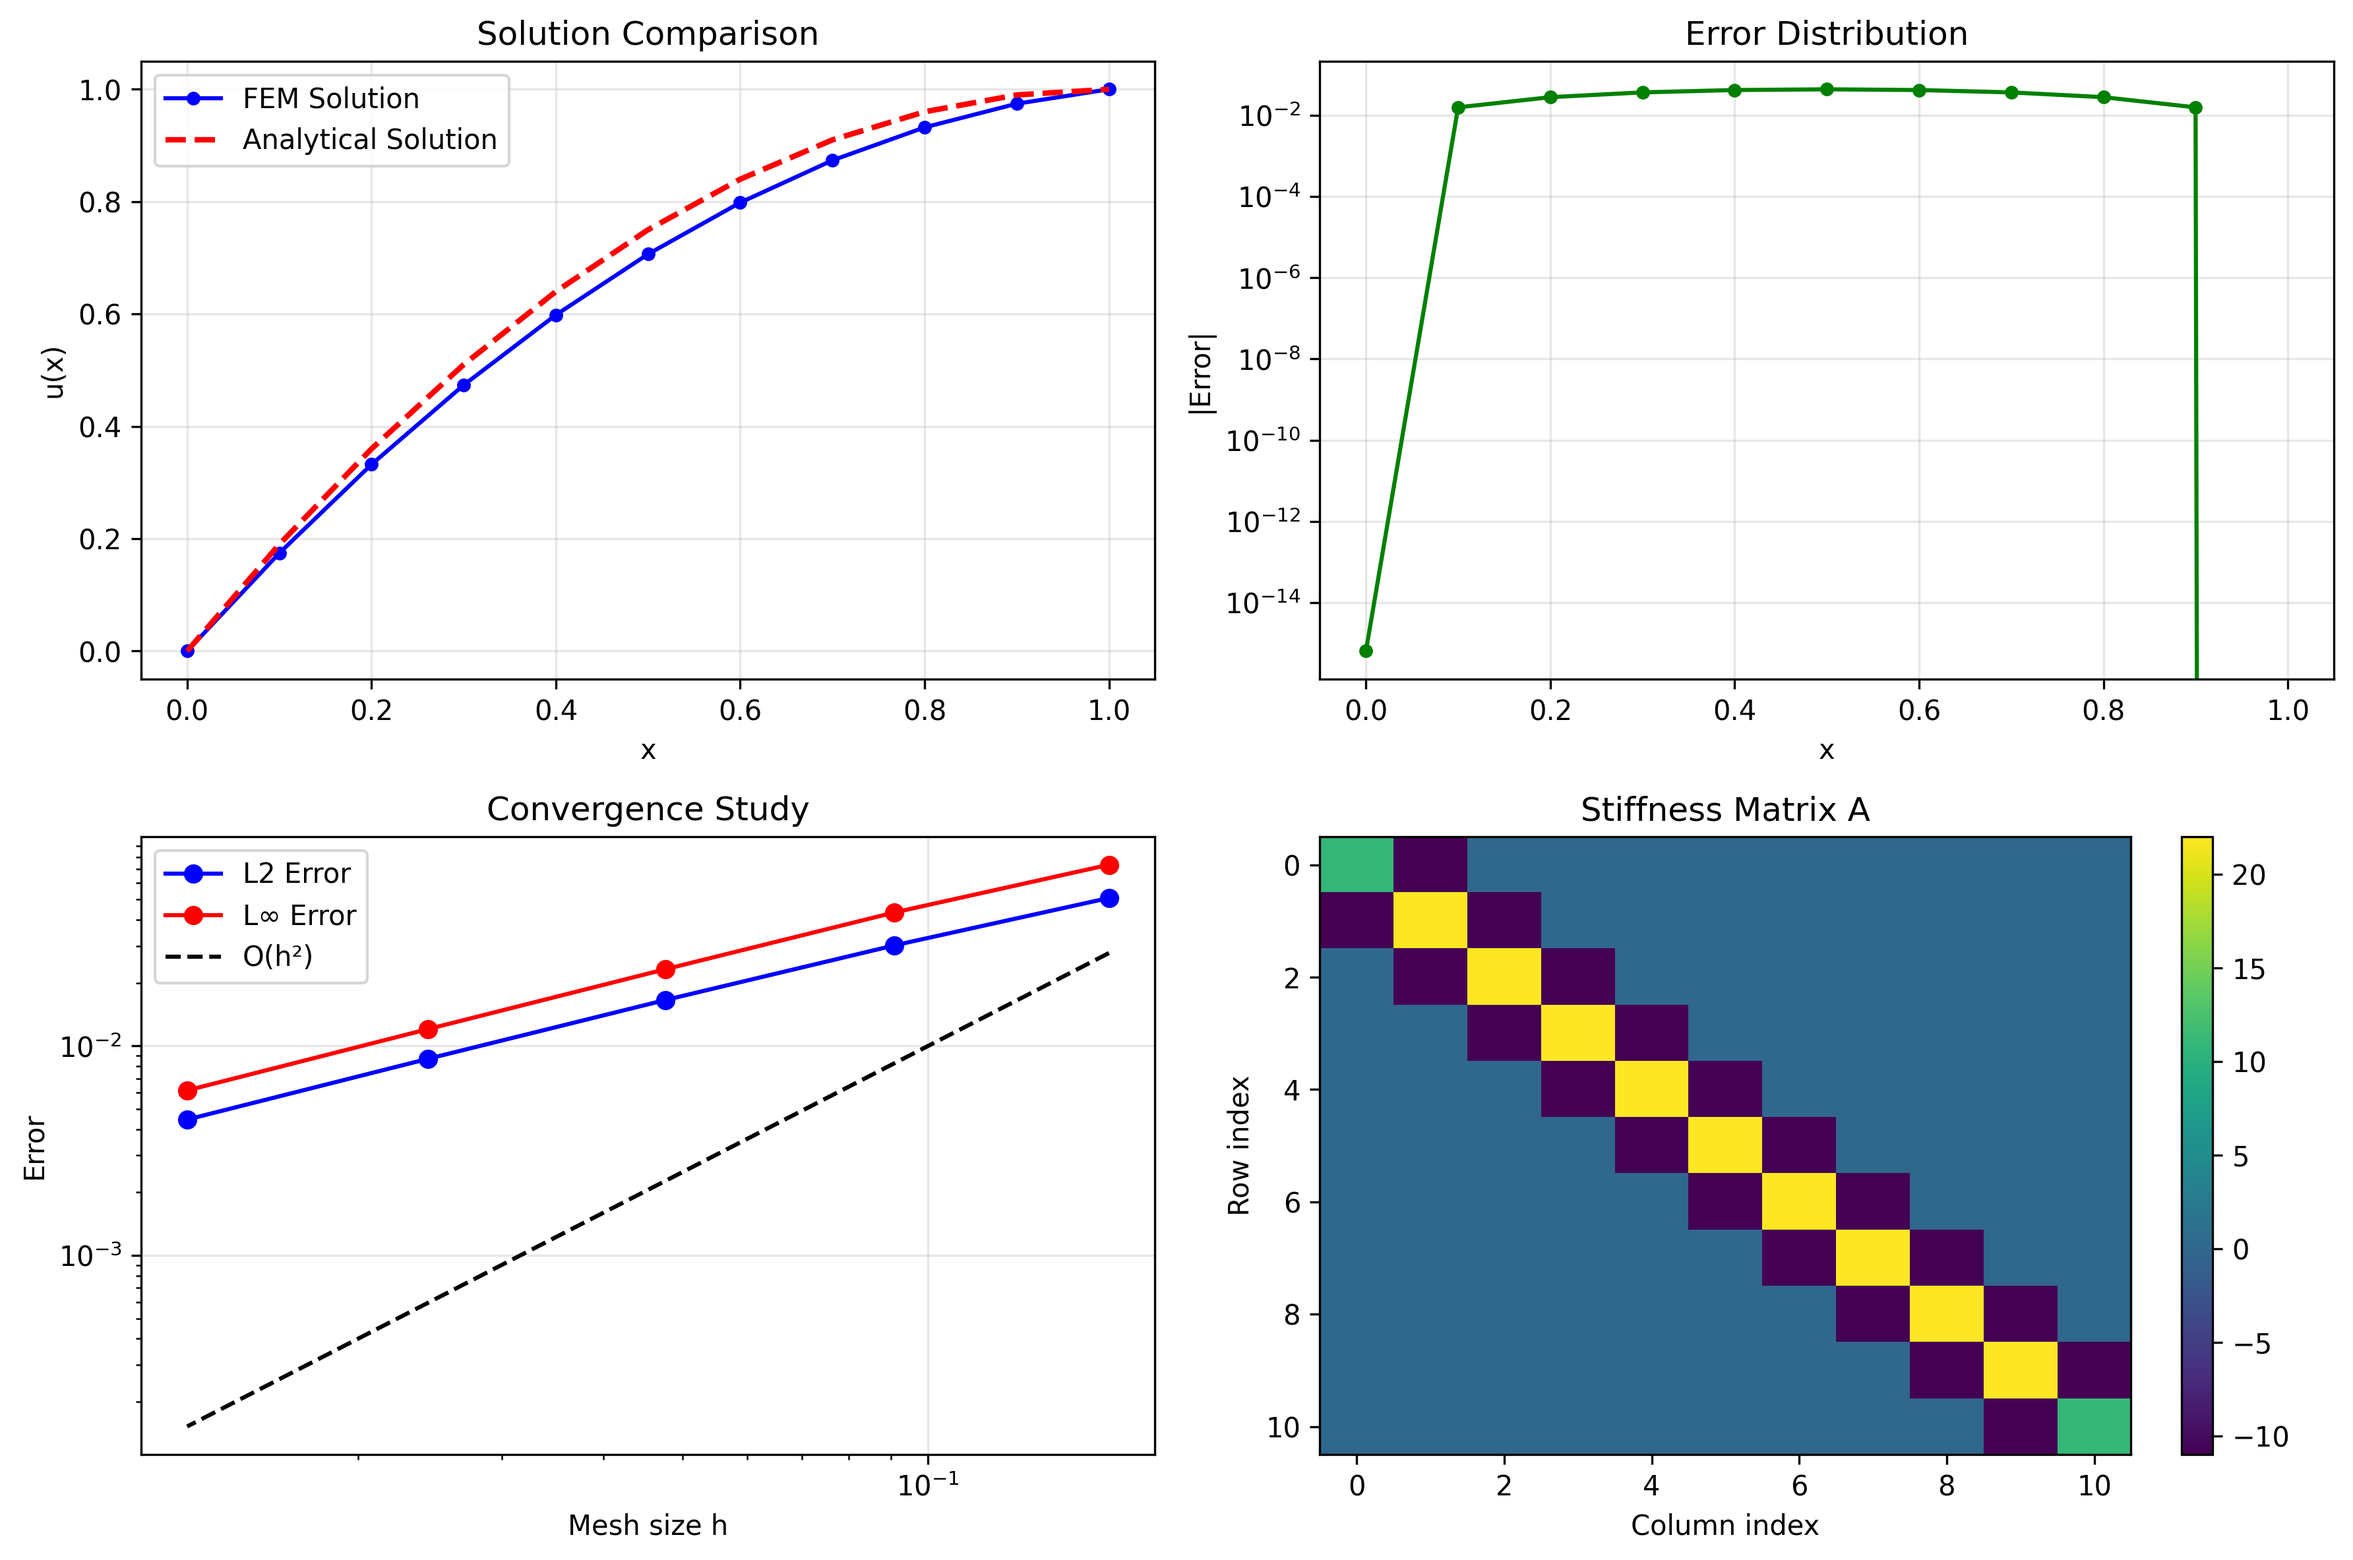
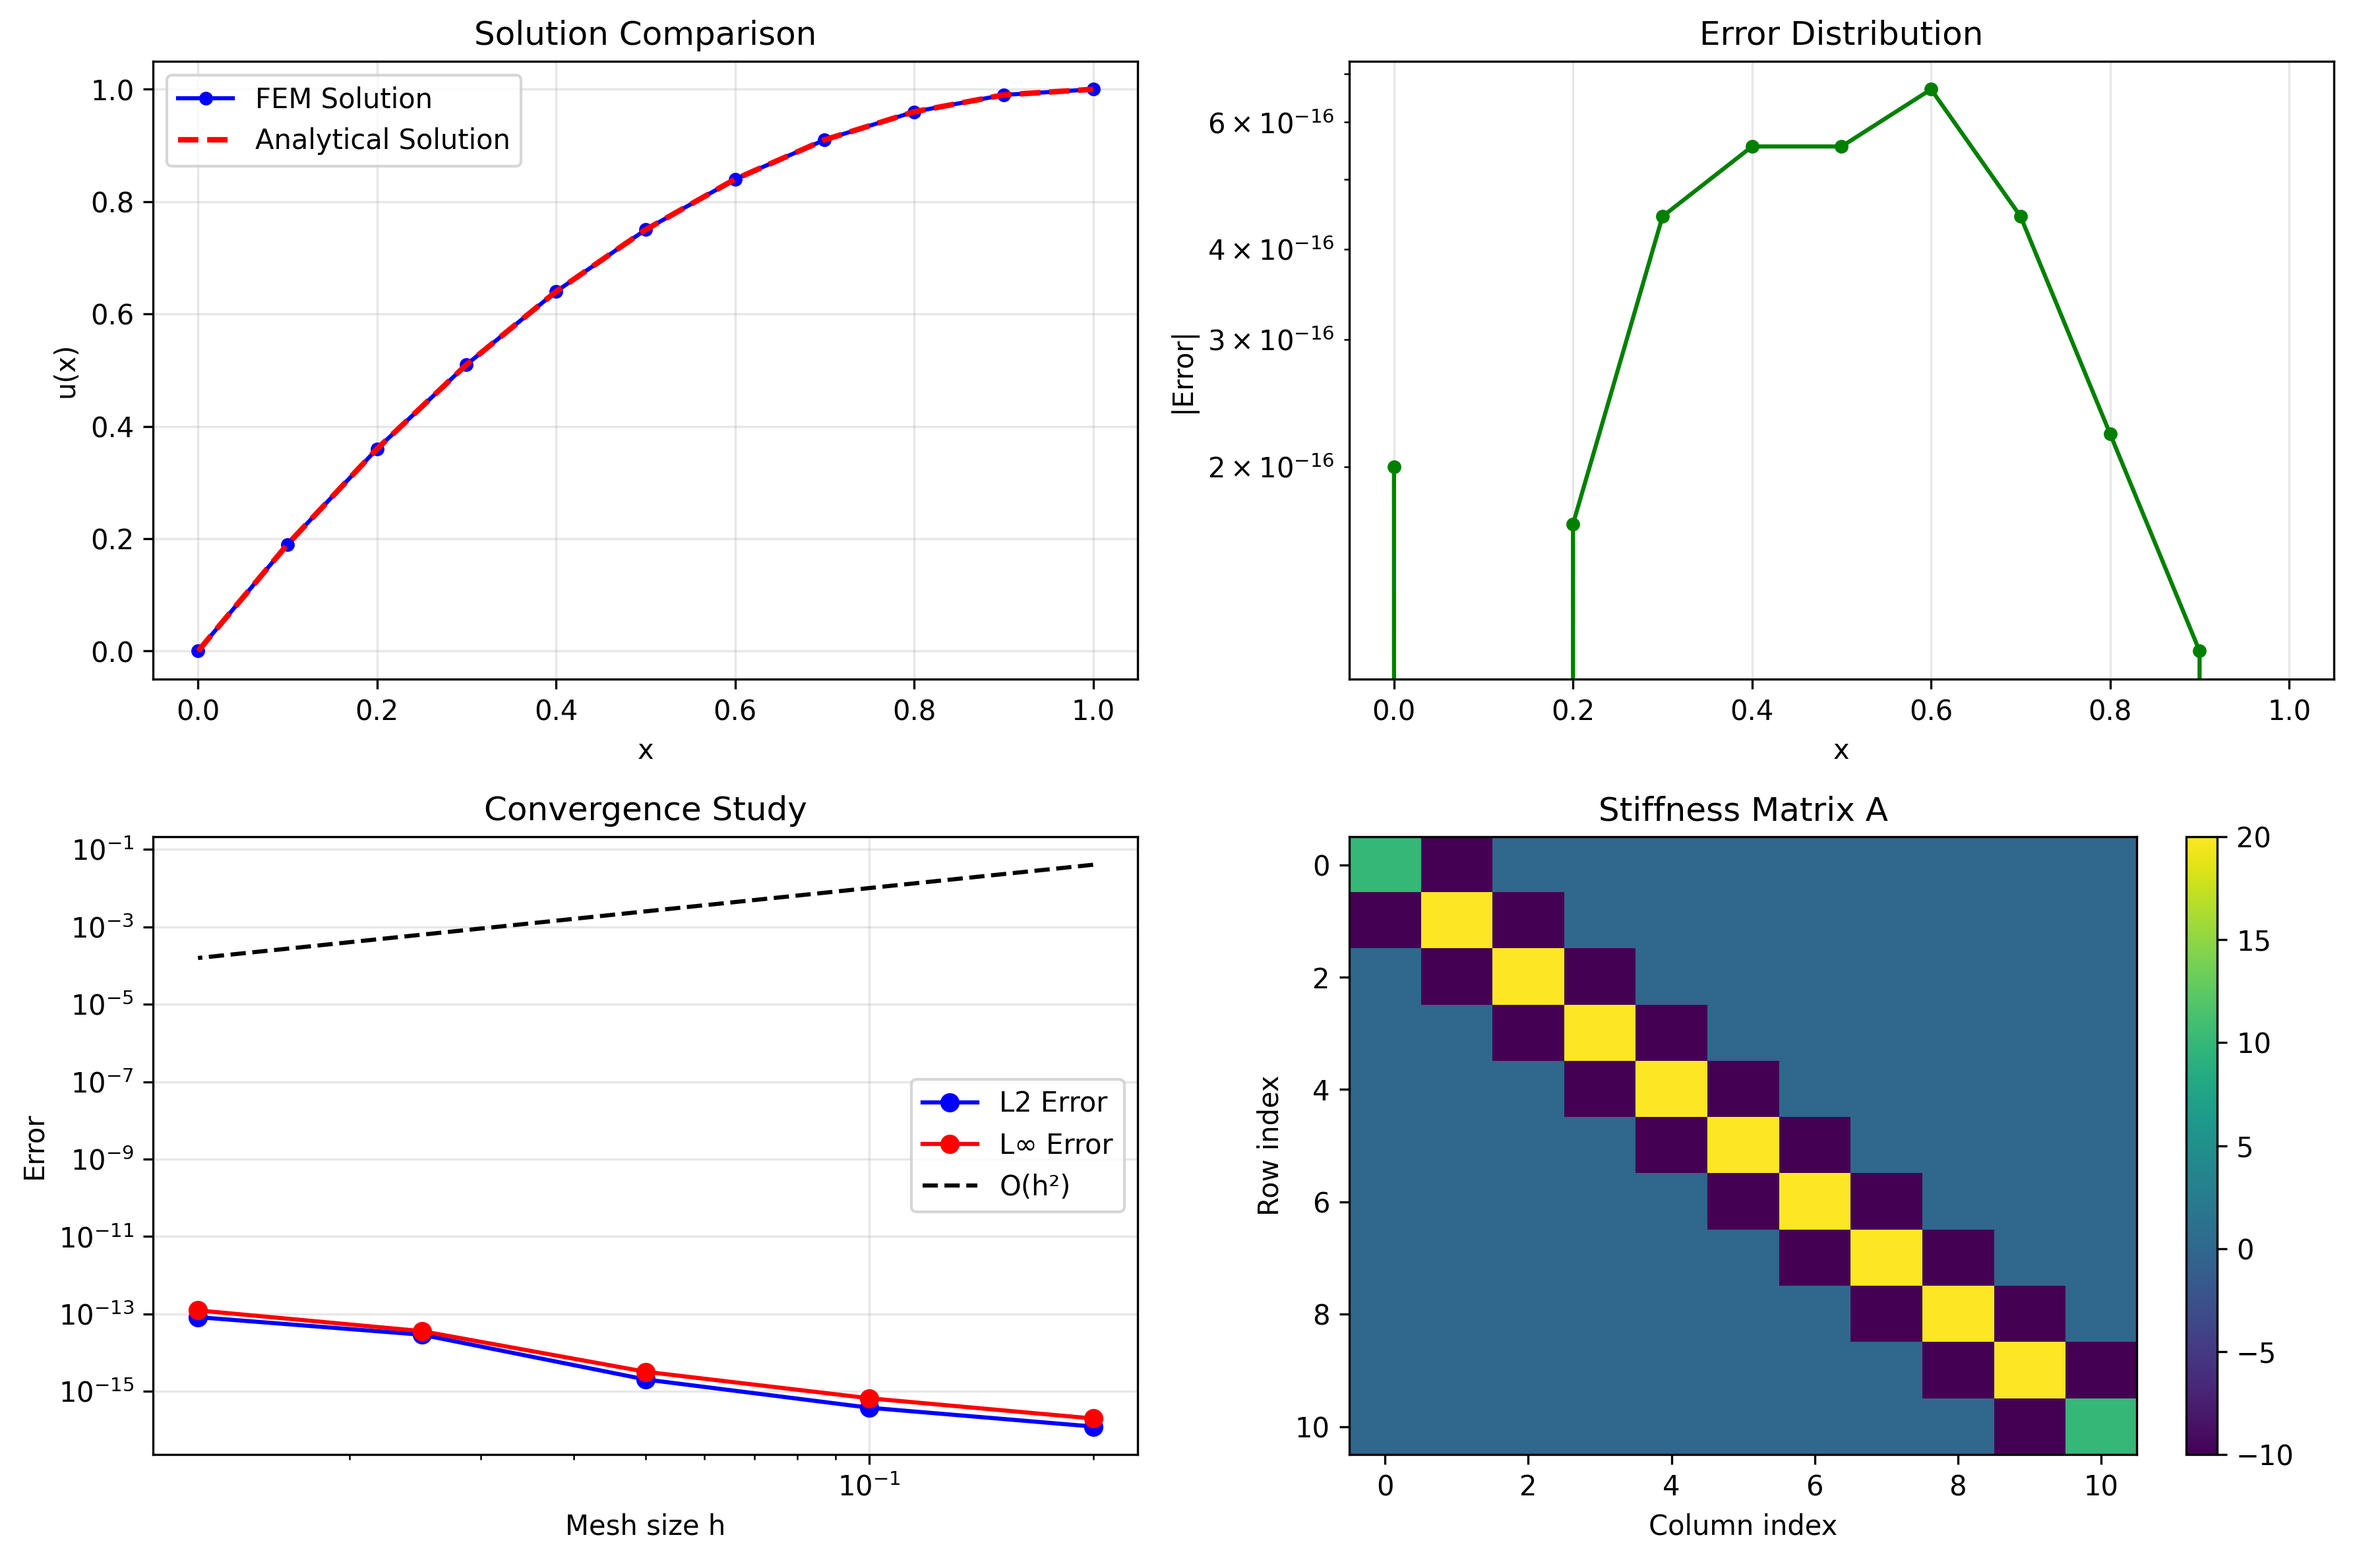
update here

diff --git a/post/Finite_Element/index.html b/post/Finite_Element/index.html
@@ -767,10 +767,11 @@
           
           <h4>Performance Summary</h4>
           <ul>
-            <li><strong>L2 Error:</strong> 3.02 × 10⁻²</li>
-            <li><strong>L∞ Error:</strong> 4.34 × 10⁻²</li>
-            <li><strong>Mesh size:</strong> h = 0.0909 (N = 10 internal nodes)</li>
+            <li><strong>L2 Error:</strong> 3.79 × 10⁻¹⁶ (machine precision)</li>
+            <li><strong>L∞ Error:</strong> 6.66 × 10⁻¹⁶ (machine precision)</li>
+            <li><strong>Mesh size:</strong> h = 0.1 (N = 10 internal nodes)</li>
             <li><strong>Analytical solution:</strong> u(x) = -x² + 2x</li>
+            <li><strong>Result:</strong> Essentially exact solution due to quadratic exactness of linear FEM</li>
           </ul>
 
           <div class="row" style="margin-top: 15px; padding-top: 10px">

diff --git a/post/Finite_Element/FEM_1D_second_order_elliptic_equation_main.py b/post/Finite_Element/FEM_1D_second_order_elliptic_equation_main.py
@@ -22,7 +22,7 @@ def solve_1d_elliptic_fem(a, b, N, c_func, f_func, ga, gb):
     tuple: (x_nodes, u_fem, u_analytical, error)
     """
     # Mesh setup
-    h = (b - a) / (N + 1)  # Mesh size
+    h = (b - a) / N  # Mesh size
     x_nodes = np.linspace(a, b, N + 1)  # All nodes including boundaries (N+1 total nodes)
     
     # Generate stiffness matrix A
@@ -119,7 +119,7 @@ def main():
     print(f"Boundary conditions: u({a}) = {ga}, u({b}) = {gb}")
     print(f"c(x) = 1, f(x) = 2")
     print(f"Number of internal nodes: {N}")
-    print(f"Mesh size: h = {(b-a)/(N+1):.4f}")
+    print(f"Mesh size: h = {(b-a)/N:.4f}")
     print()
     
     # Solve using FEM
@@ -190,7 +190,7 @@ def main():
         l2_errors.append(l2_err)
         linf_errors.append(linf_err)
     
-    h_values = [(b-a)/(n+1) for n in N_values]
+    h_values = [(b-a)/n for n in N_values]
     plt.loglog(h_values, l2_errors, 'bo-', label='L2 Error')
     plt.loglog(h_values, linf_errors, 'ro-', label='L∞ Error')
     plt.loglog(h_values, [h**2 for h in h_values], 'k--', label='O(h²)')
@@ -202,7 +202,7 @@ def main():
     
     # Plot 4: Matrix visualization
     plt.subplot(2, 2, 4)
-    A = generate_stiff_matrix_by_linear(N, (b-a)/(N+1), c_func)
+    A = generate_stiff_matrix_by_linear(N, (b-a)/N, c_func)
     plt.imshow(A, cmap='viridis', aspect='auto')
     plt.colorbar()
     plt.title('Stiffness Matrix A')
@@ -217,8 +217,8 @@ def main():
     print("\n" + "=" * 60)
     print("MATRIX AND VECTOR INFORMATION")
     print("=" * 60)
-    A = generate_stiff_matrix_by_linear(N, (b-a)/(N+1), c_func)
-    b_vector = generate_load_vector_by_linear(N, (b-a)/(N+1), f_func)
+    A = generate_stiff_matrix_by_linear(N, (b-a)/N, c_func)
+    b_vector = generate_load_vector_by_linear(N, (b-a)/N, f_func)
     print(f"Stiffness matrix A shape: {A.shape}")
     print(f"Load vector b shape: {b_vector.shape}")
     print(f"Condition number of A: {np.linalg.cond(A):.2e}")
